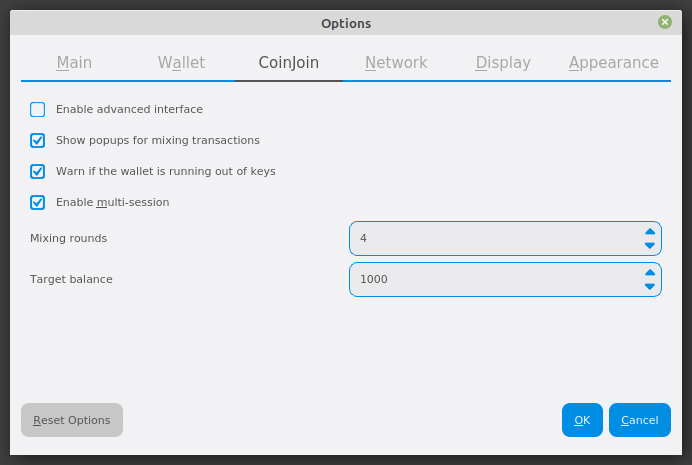
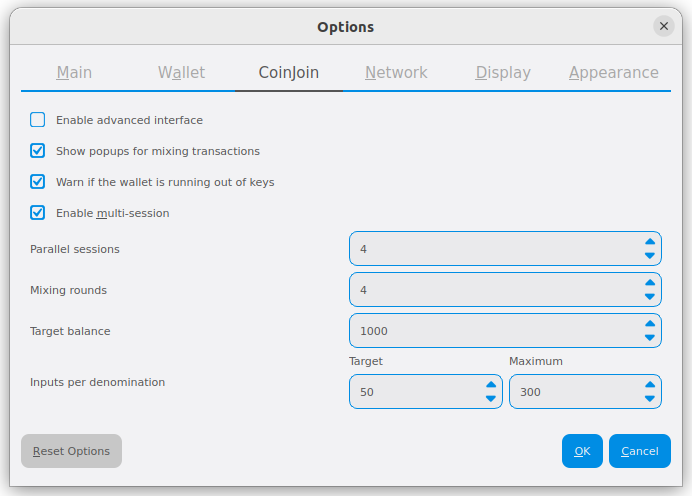
docs: update coinjoin options screen (#307)
* docs: update coinjoin options screen

* docs: update description for cj options

Changed region(s): [[0.0, 0.0, 1.0, 1.0]]

diff --git a/docs/user/wallets/dashcore/coinjoin-instantsend.rst b/docs/user/wallets/dashcore/coinjoin-instantsend.rst
@@ -66,6 +66,12 @@ Configuration
    process under settings and click **Start CoinJoin** on the **Overview**
    tab of your wallet.
 
+Several advanced options are also available on this screen for users that
+require more control: 
+
+* **Inputs per denomination** values allow limiting how many inputs are created. This can be helpful if you end up with too many small denominations.
+* **Parallel sessions** sets how many separate masternodes should be used in parallel if multi-session mixing is enabled.
+
 
 Starting CoinJoin
 -----------------
